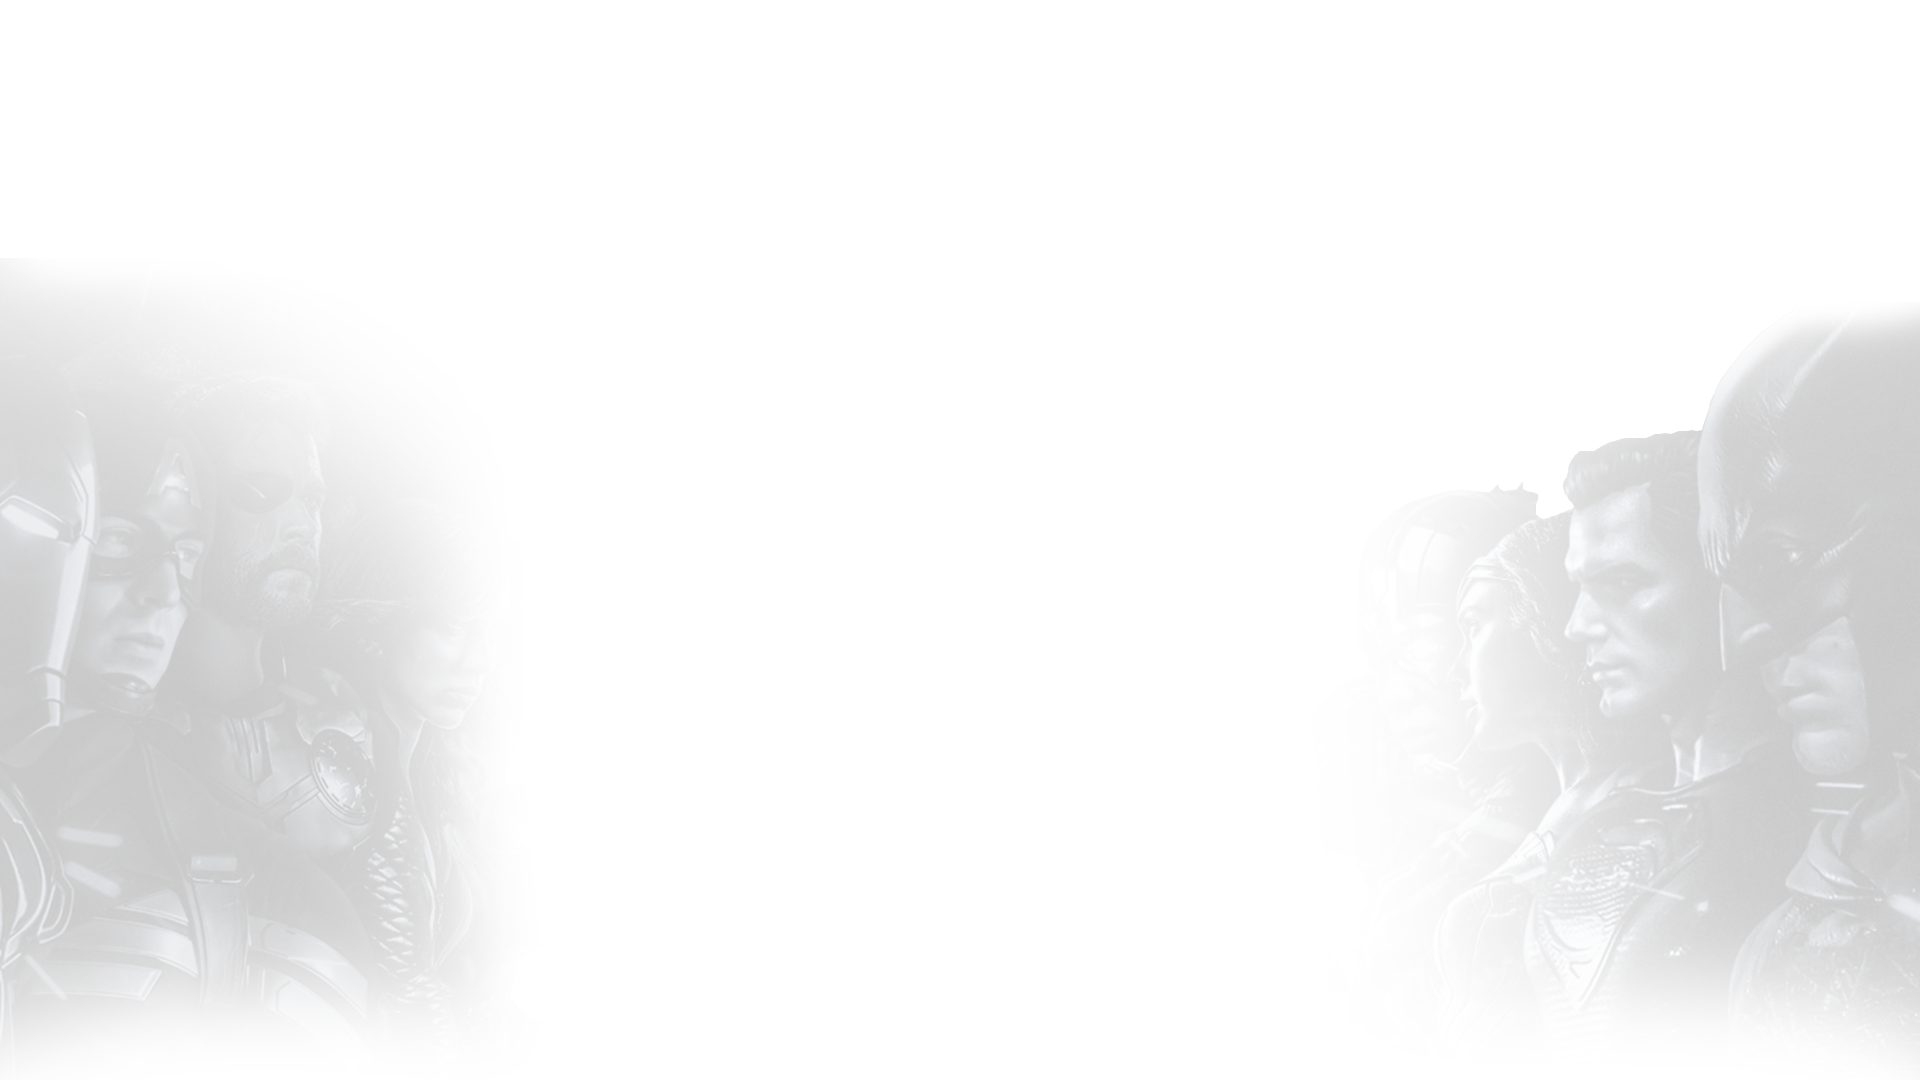
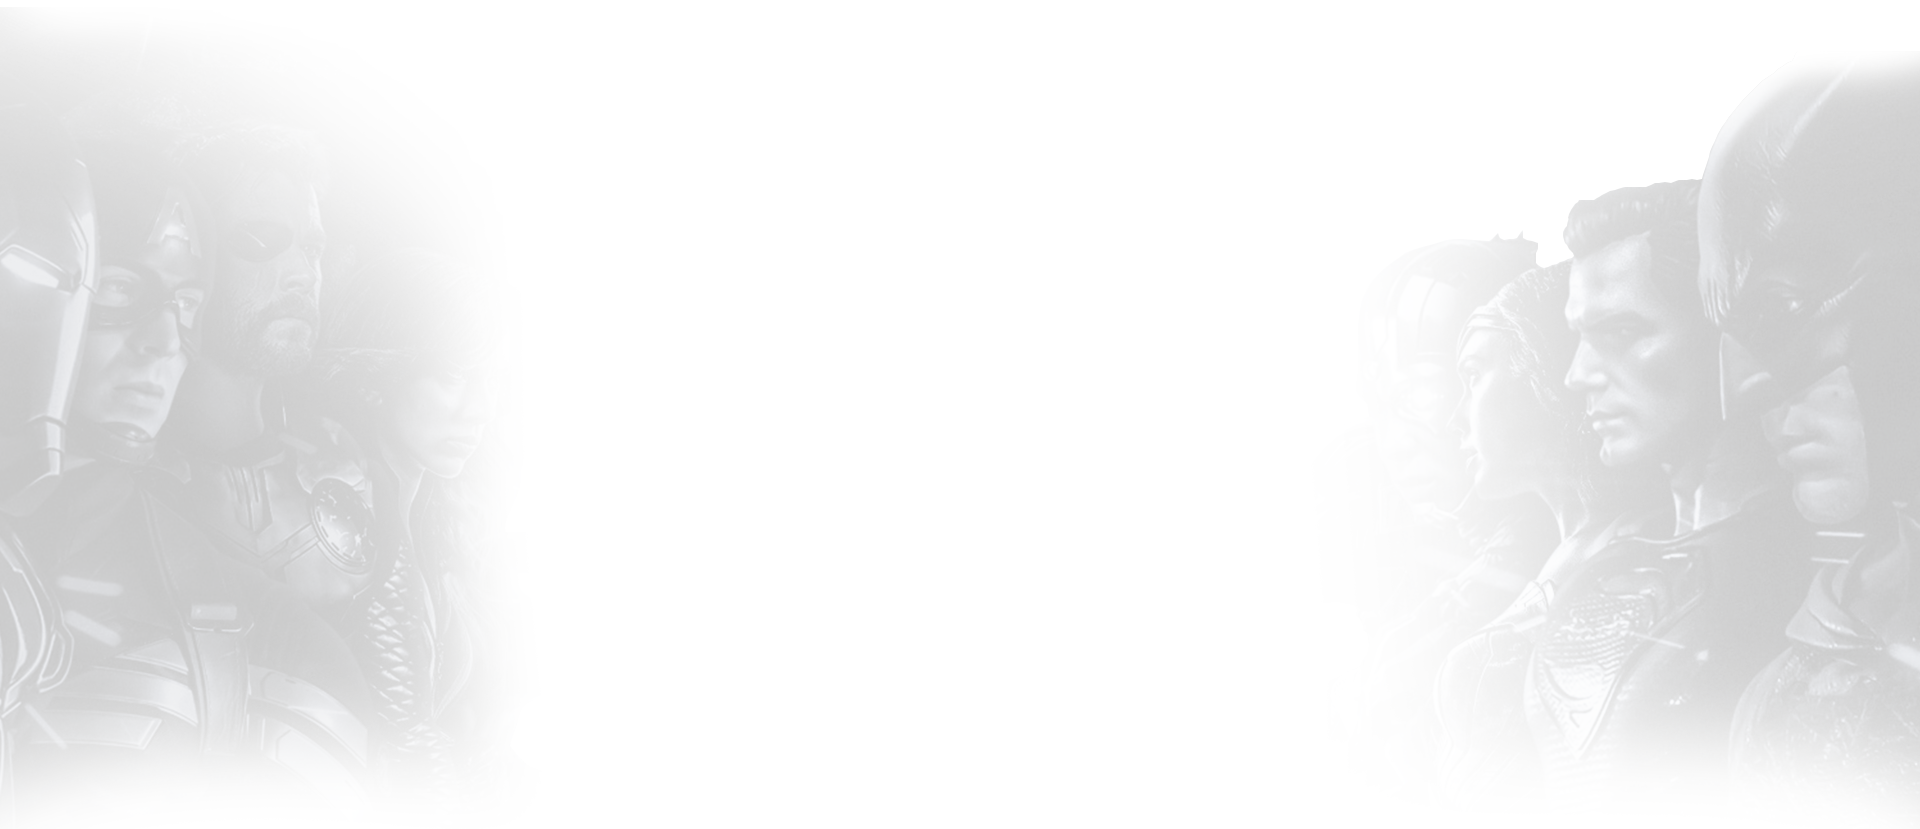
added the theme service, module and typescript fil

diff --git a/src/styles.css b/src/styles.css
@@ -25,6 +25,8 @@
     --lightThemeBoxShadow:none;
     --darkThemeBoxShadow:inset 2px 2px 3px #090d10, inset  -2px -2px 3px #2b3744  ;
 
+    --footerImageFilter:  none;
+
 }
   body::-webkit-scrollbar {
     width: 10px;
@@ -44,6 +46,9 @@
    }
    .main{
        width:100%;
+       background-image:url("assets/background3.png");
+       background-size: contain;
+       background-repeat: no-repeat;
    }
    .head-title h1{
        font-family:bangers;
@@ -54,10 +59,6 @@
    .head{
        text-align: center;
        padding:70px 5%;
-       background-image:url("assets/background3.png");
-       background-size: cover;
-      background-repeat: no-repeat;
-      background-position: bottom;
 
    }
    .sub-title p{
@@ -115,7 +116,7 @@
    }
    .superhero-api-link{
        background-color:var(--mainbackground-default) ;
-       color:var(--primaryColor);
+       color:var(--primaryDark);
        padding:10px 15px;
        border:none;
        border-radius:30px;
@@ -128,7 +129,7 @@
        box-shadow:var(--LargeBoxShadow) ;
    }
    .footer a{
-       color:var(--primaryColor);
+       color:var(--primaryDark);
        font-weight:bold;
        transition: all ease 0.3s;
    }
@@ -174,9 +175,14 @@
 .theme-toggle .dark{
     background:var(--mainbackground-default);
     color:var(--primaryColor);
+    background:#161c23;
     border:none;
     box-shadow:var(--darkThemeBoxShadow);
     padding:5px 15px;
     border-top-left-radius: 20px;
     border-bottom-left-radius: 20px;
+}
+
+.footer-content img{
+    filter:var(--footerImageFilter);
 }

diff --git a/src/app/theme/theme.ts b/src/app/theme/theme.ts
@@ -22,7 +22,9 @@ export const dark: Theme={
     
         "--inputBoxInsetShadow":"inset 2px 2px 3px #090d10, inset  -2px -2px 3px #2b3744",
         "--lightThemeBoxShadow":"none",
-        "--darkThemeBoxShadow":"inset 2px 2px 3px #090d10, inset  -2px -2px 3px #2b3744"  
+        "--darkThemeBoxShadow":"inset 2px 2px 3px #090d10, inset  -2px -2px 3px #2b3744"  ,
+
+        "--footerImageFilter":  "none"
     }
 }
 
@@ -36,14 +38,16 @@ export const light: Theme={
         "--inputBoxColor":"#007cff",
     
         "--primaryColor":"#5294e2",
-        "--primaryDark":"#0075ff",
+        "--primaryDark":"#2a8cff",
     
         "--SmallBoxShadow":"-2px -2px 3px #ffffff ,2px 2px 3px #bfbfbf" ,
         "--LargeBoxShadow":"-4px -4px 5px #ffffff ,4px 4px 5px #bfbfbf ",
         "--MediumBoxShadow":"-3px -3px 4px #ffffff ,3px 3px 4px #bfbfbf" ,
     
         "--inputBoxInsetShadow":"inset 2px 2px 3px #bfbfbf, inset  -2px -2px 3px #ffffff",
-        "--lightThemeBoxShadow":"none",
-        "--darkThemeBoxShadow":"inset 2px 2px 3px #bfbfbf, inset  -2px -2px 3px #ffffff"
+        "--lightThemeBoxShadow":"inset 2px 2px 3px #bfbfbf, inset  -2px -2px 3px #ffffff",
+        "--darkThemeBoxShadow":"none",
+
+        "--footerImageFilter":  "invert(1) brightness(0.5) drop-shadow(2px 4px 6px white)"
     }
 }

diff --git a/src/app/hero-info/hero-info.component.html b/src/app/hero-info/hero-info.component.html
@@ -7,7 +7,7 @@
         </div>
         <div class="col-md-5">
             <div class="box">
-                <h1 style="color:#5294e2"><strong>{{info.name}}</strong></h1><br>
+                <h1 style="color:var(--primaryDark);"><strong>{{info.name}}</strong></h1><br>
                 <p class="lead" style="font-weight:bold;opacity:0.7">BIOGRAPHY</p>
                 <p class="lead"><strong>Fullname/ Unmasked name: <span style="font-weight:bold;color:#5294e2">{{info.biography['full_name']}}</span></strong><p>
                 <p class="lead"><strong>Place of Birth: <span style="font-weight:bold;color:#5294e2">{{info.biography['place_of_birth']}}</span></strong><p>

diff --git a/src/app/results/results.component.css b/src/app/results/results.component.css
@@ -11,6 +11,7 @@
     margin:0;
     margin:auto;
     padding:0px;
+    background:var(--mainbackground-default);
     box-shadow:var(--LargeBoxShadow) ;
 }
 .result-card .col-sm-6{
@@ -23,11 +24,11 @@
     filter: sepia(0.8) hue-rotate(180deg) brightness(0.8) contrast(1.3);
 }
 .result-card .details h2{
-    color:var(--primaryColor);
+    color:var(--primaryDark);
 }
 .result-card .details button{
     background-color:var(--mainbackground-default) ;
-    color:var(--primaryColor);
+    color:var(--primaryDark);
     padding:10px 15px;
     border:none;
     border-radius:30px;

diff --git a/src/app/app.module.ts b/src/app/app.module.ts
@@ -26,15 +26,15 @@ import { NgCircleProgressModule } from 'ng-circle-progress';
       // set defaults here
       backgroundPadding:5,
       radius: 47,
-      space:-10,
+      space:-11,
       maxPercent:100,
       unitsFontSize:'17',
       unitsColor: "#5294e2",
-      outerStrokeWidth: 10,
+      outerStrokeWidth: 12,
       innerStrokeWidth: 10,
       outerStrokeColor: "#5294e2",
       innerStrokeColor: "#090d10",
-      titleColor:"#0075ff",
+      titleColor:"#2a8cff",
       titleFontSize:'27',
       titleFontWeight:'700',
       showSubtitle:false,

diff --git a/src/app/hero-info/hero-info.component.css b/src/app/hero-info/hero-info.component.css
@@ -65,7 +65,7 @@
 }
 .back-button{
     background:var(--mainbackground-default) ;
-    color:var(--primaryColor);
+    color:var(--primaryDark);
     padding:15px 25px;
     border:none;
     border-radius:50px;
